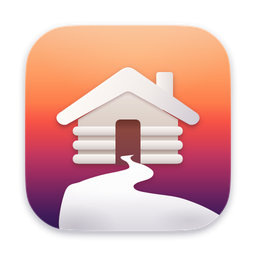
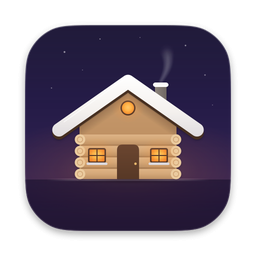
Use the night cabin art on the site and README.
The 1600-pixel headers, social previews, and night cabin icon replace the docs artwork. The landing page keeps From card to calm as its headline, and the short description is the README intro and the page description.

diff --git a/docs/index.html b/docs/index.html
@@ -4,39 +4,40 @@
   <meta charset="utf-8">
   <meta name="viewport" content="width=device-width, initial-scale=1">
   <title>Lodge — Home base for your media.</title>
-  <meta name="description" content="Home base for your media. Lodge is a native Mac app that offloads camera memory cards and verifies every copy.">
-  <meta name="theme-color" content="#000000">
+  <meta name="description" content="Lodge gets your footage off camera cards safely, checked and neatly named.">
+  <meta name="theme-color" content="#100e18">
   <meta name="color-scheme" content="dark">
   <link rel="canonical" href="https://bashcrandicoot.github.io/Lodge/">
-  <link rel="icon" href="assets/app-icon/icon_128x128.png" type="image/png">
-  <link rel="apple-touch-icon" href="assets/app-icon/icon_256x256.png">
+  <link rel="icon" href="assets/favicon.ico" sizes="any">
+  <link rel="icon" href="assets/favicon.png" type="image/png" sizes="32x32">
+  <link rel="apple-touch-icon" href="assets/apple-touch-icon.png">
 
   <meta property="og:type" content="website">
   <meta property="og:site_name" content="Lodge">
   <meta property="og:url" content="https://bashcrandicoot.github.io/Lodge/">
   <meta property="og:title" content="Lodge — Home base for your media.">
-  <meta property="og:description" content="Home base for your media. Lodge is a native Mac app that offloads camera memory cards and verifies every copy.">
+  <meta property="og:description" content="Lodge gets your footage off camera cards safely, checked and neatly named.">
   <meta property="og:image" content="https://bashcrandicoot.github.io/Lodge/assets/lodge-social-preview.png">
   <meta property="og:image:width" content="1280">
   <meta property="og:image:height" content="640">
-  <meta property="og:image:alt" content="Lodge. Home base for your media.">
+  <meta property="og:image:alt" content="Lodge. Home base for your media. A log cabin at night, with pines and mountains.">
 
   <meta name="twitter:card" content="summary_large_image">
   <meta name="twitter:title" content="Lodge — Home base for your media.">
-  <meta name="twitter:description" content="Home base for your media. Lodge is a native Mac app that offloads camera memory cards and verifies every copy.">
+  <meta name="twitter:description" content="Lodge gets your footage off camera cards safely, checked and neatly named.">
   <meta name="twitter:image" content="https://bashcrandicoot.github.io/Lodge/assets/lodge-social-preview.png">
-  <meta name="twitter:image:alt" content="Lodge. Home base for your media.">
+  <meta name="twitter:image:alt" content="Lodge. Home base for your media. A log cabin at night, with pines and mountains.">
 
   <style>
     :root {
-      --bg: #000000;
+      --bg: #100e18;
       --ink: #ffffff;
-      --muted: #8e8e93;
-      --accent: #0a84ff;
-      --button: #0071eb;
-      --card: #141416;
-      --line: rgba(255, 255, 255, 0.1);
-      --warm: #ff6b5c;
+      --muted: #b7b1c9;
+      --accent: #b7c6ff;
+      --button: #3d4fce;
+      --button-hover: #4d5ed6;
+      --card: #1b1830;
+      --line: rgba(230, 220, 255, 0.12);
       --font: -apple-system, BlinkMacSystemFont, "SF Pro Display", "SF Pro Text", "Segoe UI", Helvetica, Arial, sans-serif;
       --mono: ui-monospace, "SF Mono", Menlo, Consolas, monospace;
       --max: 1080px;
@@ -55,7 +56,7 @@
     }
     img { max-width: 100%; height: auto; }
     a { color: var(--accent); text-decoration-thickness: 1px; text-underline-offset: 0.16em; }
-    a:hover { color: #4da2ff; }
+    a:hover { color: #d7e0ff; }
     :focus-visible {
       outline: 3px solid var(--accent);
       outline-offset: 3px;
@@ -65,7 +66,7 @@
       position: absolute;
       left: 16px;
       top: -48px;
-      background: var(--accent);
+      background: var(--button);
       color: #fff;
       padding: 8px 12px;
       border-radius: 8px;
@@ -82,7 +83,7 @@
       justify-content: space-between;
       gap: 16px;
       padding: 14px 28px;
-      background: rgba(0, 0, 0, 0.78);
+      background: rgba(16, 14, 24, 0.86);
       border-bottom: 1px solid var(--line);
       backdrop-filter: saturate(140%) blur(16px);
     }
@@ -114,27 +115,34 @@
       border-radius: 980px;
       padding: 6px 14px;
     }
-    .nav-links .download:hover { background: var(--accent); color: #fff; }
+    .nav-links .download:hover { background: var(--button-hover); color: #fff; }
 
     .wrap { width: min(var(--max), calc(100% - 40px)); margin: 0 auto; }
 
     .hero {
       position: relative;
-      padding: 56px 0 28px;
+      padding: 28px 0 12px;
       text-align: center;
     }
     .hero::before {
       content: "";
       position: absolute;
       left: 50%;
-      top: 0;
+      top: 40px;
       width: min(820px, 100%);
-      height: 380px;
+      height: 280px;
       transform: translateX(-50%);
-      background: radial-gradient(ellipse at center, rgba(255, 107, 92, 0.16), rgba(255, 107, 92, 0) 70%);
+      background: radial-gradient(ellipse at center, rgba(120, 100, 190, 0.22), rgba(120, 100, 190, 0) 70%);
       pointer-events: none;
     }
     .hero-inner { position: relative; }
+    .hero img.header {
+      width: 100%;
+      height: auto;
+      display: block;
+      margin: 0 auto 22px;
+      border-radius: 16px;
+    }
     .lede {
       max-width: 38rem;
       margin: 0 auto 28px;
@@ -158,7 +166,7 @@
       padding: 12px 18px;
       border: 1px solid transparent;
     }
-    .button:hover { background: var(--accent); color: #fff; }
+    .button:hover { background: var(--button-hover); color: #fff; }
     .button.secondary {
       background: transparent;
       color: var(--ink);
@@ -209,16 +217,11 @@
       padding: 20px 20px 18px;
     }
     .hero h1 {
-      margin: 0 0 8px;
+      margin: 0 0 10px;
       font-size: clamp(40px, 6vw, 64px);
       font-weight: 650;
       letter-spacing: -0.04em;
       line-height: 1.05;
-    }
-    .slogan {
-      margin: 0 auto 18px;
-      font-size: 21px;
-      letter-spacing: -0.02em;
     }
     .card h3 {
       margin: 0 0 8px;
@@ -231,8 +234,8 @@
       margin: 0 0.35em 0 0;
       padding: 1px 8px;
       border-radius: 980px;
-      background: rgba(10, 132, 255, 0.18);
-      color: #b3d7ff;
+      background: rgba(183, 198, 255, 0.16);
+      color: #d7e0ff;
       font-size: 11px;
       font-weight: 650;
       letter-spacing: 0.01em;
@@ -270,7 +273,7 @@
       height: 28px;
       margin-bottom: 12px;
       border-radius: 50%;
-      background: var(--accent);
+      background: var(--button);
       color: #fff;
       font-weight: 650;
       font-size: 14px;
@@ -349,9 +352,9 @@
   <main id="main">
     <div class="hero">
       <div class="hero-inner wrap">
+        <img class="header" src="assets/lodge-header-dark.png" width="1600" height="500" alt="Lodge. Home base for your media. A log cabin at night, with pines and mountains.">
         <h1>From card to calm.</h1>
-        <p class="slogan">Home base for your media.</p>
-        <p class="lede">A native Mac app for offloading camera memory cards, on Apple silicon and Intel. Lodge copies what is new, verifies every file, and names it the way you asked.</p>
+        <p class="lede">Lodge gets your footage off camera cards safely, checked and neatly named.</p>
         <div class="actions">
           <a class="button" href="https://github.com/bashcrandicoot/Lodge/releases/tag/v1.0.0">Download for Mac</a>
           <a class="button secondary" href="https://github.com/bashcrandicoot/Lodge/blob/main/docs/getting-started.md">Getting started</a>

diff --git a/CONTRIBUTING.md b/CONTRIBUTING.md
@@ -115,7 +115,7 @@ Palettes live in `Theme.swift`. Each theme is tuned separately for Light and Dar
 
 User-facing pages live in `README.md` and `docs/`. The site is `docs/index.html`, ready for GitHub Pages from the `/docs` folder on `main`. `docs/.nojekyll` keeps Pages from running Jekyll.
 
-The README hero is a `<picture>` pointing at `docs/assets/lodge-header-dark.png` and `docs/assets/lodge-header-light.png` (1600×500). Open Graph uses `docs/assets/lodge-social-preview.png` (1280×640). Replace those files in place when a new banner or social image arrives. The headline is “From card to calm.” The slogan, on the page title, the meta description, and the image alt text, is “Home base for your media.”
+The README hero is a `<picture>` pointing at `docs/assets/lodge-header-dark.png` and `docs/assets/lodge-header-light.png` (1600×500). The art already includes the Lodge wordmark and “Home base for your media.”, so the README does not repeat that line under the picture. The landing page uses the dark banner, then the headline “From card to calm.” Open Graph uses `docs/assets/lodge-social-preview.png` (1280×640); `lodge-social-preview-light.png` is the light companion. The site icon is `docs/assets/app-icon/`. `docs/assets/favicon.ico`, `favicon.png`, and `apple-touch-icon.png` are resized from `icon_1024.png`. Replace those files in place when a new set arrives. The short description in the README intro and the page meta is “Lodge gets your footage off camera cards safely, checked and neatly named.”
 
 ## License
 

diff --git a/README.md b/README.md
@@ -1,17 +1,15 @@
-<h1 align="center">From card to calm.</h1>
-
-<p align="center">Home base for your media.</p>
-
 <p align="center">
   <picture>
     <source media="(prefers-color-scheme: light)" srcset="docs/assets/lodge-header-light.png">
     <source media="(prefers-color-scheme: dark)" srcset="docs/assets/lodge-header-dark.png">
-    <img alt="Lodge. Home base for your media." src="docs/assets/lodge-header-dark.png" width="960">
+    <img alt="Lodge. Home base for your media. A log cabin at night, with pines and mountains." src="docs/assets/lodge-header-dark.png" width="960">
   </picture>
 </p>
 
+<h1 align="center">From card to calm.</h1>
+
 <p align="center">
-  Lodge is a native Mac app for people who shoot and come home with cards to empty. It copies video, photos, audio, and the small files that belong with them, checks every copy, and names the files from a template you set.
+  Lodge gets your footage off camera cards safely, checked and neatly named.
 </p>
 
 <p align="center">
